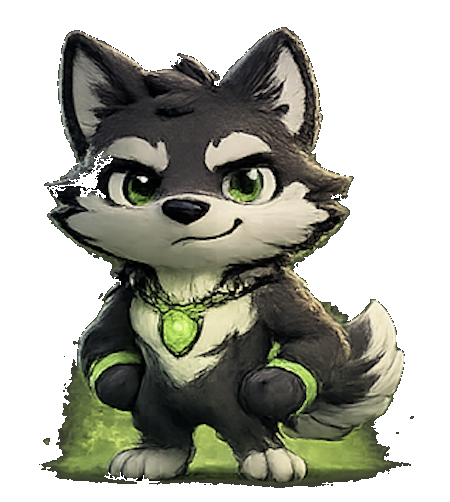
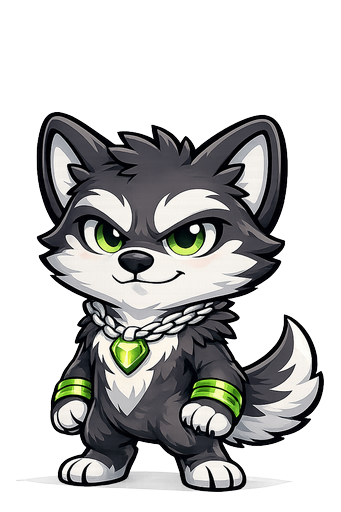
Update dependencies, config, plugins, and Locke assets
Add expo-asset, upgrade xlsx to 0.20.3, add alternate icon plugin,
and update all mascot/rank artwork to higher-resolution versions
with new mood-based app icons and Runt rank badge.

diff --git a/plugins/withAlternateIcons.js b/plugins/withAlternateIcons.js
@@ -1,0 +1,246 @@
+const {
+  withDangerousMod,
+  withInfoPlist,
+  withEntitlementsPlist,
+  withXcodeProject,
+} = require("expo/config-plugins");
+const fs = require("fs");
+const path = require("path");
+const { execSync } = require("child_process");
+
+const ICON_MOODS = [
+  "icon_focused",
+  "icon_motivated",
+  "icon_mischievous",
+  "icon_disappointed",
+];
+
+// Map mood name -> Xcode asset set name
+function assetSetName(mood) {
+  const suffix = mood.replace("icon_", "");
+  return "Icon" + suffix.charAt(0).toUpperCase() + suffix.slice(1);
+}
+
+/**
+ * Pad a PNG to 1024x1024 centered on #0D1117 background using sips + Python.
+ * Only runs if the image isn't already 1024x1024 at 72 DPI.
+ */
+function ensureIcon1024(pngPath) {
+  if (!fs.existsSync(pngPath)) return;
+  const info = execSync(`sips -g pixelWidth -g pixelHeight -g dpiWidth "${pngPath}"`, {
+    encoding: "utf8",
+  });
+  const w = parseInt(info.match(/pixelWidth:\s*(\d+)/)?.[1] || "0");
+  const h = parseInt(info.match(/pixelHeight:\s*(\d+)/)?.[1] || "0");
+  const dpi = parseFloat(info.match(/dpiWidth:\s*([\d.]+)/)?.[1] || "72");
+  if (w === 1024 && h === 1024 && Math.abs(dpi - 72) < 1) return;
+
+  console.log(`  [withAlternateIcons] Padding ${path.basename(pngPath)} (${w}x${h} @${dpi}dpi) -> 1024x1024 @72dpi`);
+  execSync(
+    `/usr/bin/python3 -c "
+from PIL import Image
+fg = Image.open('${pngPath}').convert('RGBA')
+w, h = fg.size
+BG = (0x0D, 0x11, 0x17, 255)
+canvas = Image.new('RGBA', (1024, 1024), BG)
+if w > 900 or h > 900:
+    pixels = fg.load()
+    min_x, min_y, max_x, max_y = w, h, 0, 0
+    for y in range(h):
+        for x in range(w):
+            r, g, b, a = pixels[x, y]
+            if a > 10 and not (r == 0x0D and g == 0x11 and b == 0x17):
+                min_x, min_y = min(min_x, x), min(min_y, y)
+                max_x, max_y = max(max_x, x), max(max_y, y)
+    if max_x > min_x and max_y > min_y:
+        content = fg.crop((min_x, min_y, max_x + 1, max_y + 1))
+        cw, ch = content.size
+        canvas.paste(content, ((1024-cw)//2, (1024-ch)//2), content)
+    else:
+        canvas.paste(fg, ((1024-w)//2, (1024-h)//2), fg)
+else:
+    canvas.paste(fg, ((1024-w)//2, (1024-h)//2), fg)
+canvas.save('${pngPath}', dpi=(72, 72))
+"`,
+    { encoding: "utf8" }
+  );
+}
+
+// 1. Add alternate icon image sets to xcassets
+const withAlternateIconAssets = (config) => {
+  return withDangerousMod(config, [
+    "ios",
+    async (config) => {
+      const projectRoot = config.modRequest.projectRoot;
+      const xcassetsDir = path.join(
+        projectRoot,
+        "ios",
+        config.modRequest.projectName,
+        "Images.xcassets"
+      );
+      const iconsSrc = path.join(projectRoot, "assets", "icons");
+
+      // Ensure source icons are 1024x1024
+      for (const fname of fs.readdirSync(iconsSrc)) {
+        if (fname.endsWith(".png")) {
+          ensureIcon1024(path.join(iconsSrc, fname));
+        }
+      }
+
+      // Also ensure main icon sources
+      const mainIcon = path.join(projectRoot, "assets", "icon.png");
+      const adaptiveIcon = path.join(projectRoot, "assets", "adaptive-icon.png");
+      if (fs.existsSync(mainIcon)) ensureIcon1024(mainIcon);
+      if (fs.existsSync(adaptiveIcon)) ensureIcon1024(adaptiveIcon);
+
+      // Create alternate icon asset sets
+      for (const mood of ICON_MOODS) {
+        const setName = assetSetName(mood);
+        const setDir = path.join(xcassetsDir, `${setName}.appiconset`);
+        const srcPng = path.join(iconsSrc, `${mood}.png`);
+
+        if (!fs.existsSync(srcPng)) {
+          console.warn(`  [withAlternateIcons] Missing ${mood}.png, skipping`);
+          continue;
+        }
+
+        fs.mkdirSync(setDir, { recursive: true });
+        fs.copyFileSync(srcPng, path.join(setDir, `${mood}.png`));
+        fs.writeFileSync(
+          path.join(setDir, "Contents.json"),
+          JSON.stringify(
+            {
+              images: [
+                {
+                  filename: `${mood}.png`,
+                  idiom: "universal",
+                  platform: "ios",
+                  size: "1024x1024",
+                },
+              ],
+              info: { version: 1, author: "expo" },
+            },
+            null,
+            2
+          )
+        );
+        console.log(`  [withAlternateIcons] Added ${setName} icon set`);
+      }
+
+      // Write the AppIconModule.m native module
+      const nativeDir = path.join(
+        projectRoot,
+        "ios",
+        config.modRequest.projectName
+      );
+      const modulePath = path.join(nativeDir, "AppIconModule.m");
+      fs.writeFileSync(
+        modulePath,
+        `#import <React/RCTBridgeModule.h>
+#import <UIKit/UIKit.h>
+
+@interface AppIconModule : NSObject <RCTBridgeModule>
+@end
+
+@implementation AppIconModule
+
+RCT_EXPORT_MODULE();
+
+RCT_EXPORT_METHOD(setIcon:(NSString *)iconName
+                  resolve:(RCTPromiseResolveBlock)resolve
+                  reject:(RCTPromiseRejectBlock)reject)
+{
+  dispatch_async(dispatch_get_main_queue(), ^{
+    NSString *name = [iconName isKindOfClass:[NSNull class]] ? nil : iconName;
+    [[UIApplication sharedApplication] setAlternateIconName:name
+                                         completionHandler:^(NSError * _Nullable error) {
+      if (error) {
+        reject(@"ICON_ERROR", error.localizedDescription, error);
+      } else {
+        resolve(nil);
+      }
+    }];
+  });
+}
+
+@end
+`
+      );
+      console.log("  [withAlternateIcons] Added AppIconModule.m");
+
+      return config;
+    },
+  ]);
+};
+
+// 2. Add AppIconModule.m to Xcode project sources
+const withAppIconXcodeProject = (config) => {
+  return withXcodeProject(config, (config) => {
+    const proj = config.modResults;
+    const projectName = config.modRequest.projectName;
+    const fileName = "AppIconModule.m";
+    const filePath = `${projectName}/${fileName}`;
+
+    // Check if already added
+    const existingFile = proj.pbxFileReferenceSection();
+    const alreadyAdded = Object.values(existingFile).some(
+      (f) => typeof f === "object" && f.name === fileName
+    );
+    if (!alreadyAdded) {
+      // Find the main source group for the project
+      const mainGroup = proj.getFirstProject().firstProject.mainGroup;
+      const groups = proj.getPBXGroupByKey(mainGroup);
+      let targetGroup = mainGroup;
+      if (groups && groups.children) {
+        const appGroup = groups.children.find(
+          (c) => c.comment === projectName
+        );
+        if (appGroup) targetGroup = appGroup.value;
+      }
+
+      proj.addSourceFile(filePath, { target: proj.getFirstTarget().uuid }, targetGroup);
+      console.log("  [withAlternateIcons] Added AppIconModule.m to Xcode project");
+    }
+    return config;
+  });
+};
+
+// 3. Add CFBundleAlternateIcons to Info.plist
+const withAlternateIconsPlist = (config) => {
+  return withInfoPlist(config, (config) => {
+    const alternateIcons = {};
+    for (const mood of ICON_MOODS) {
+      alternateIcons[mood] = {
+        CFBundleIconFiles: [assetSetName(mood)],
+      };
+    }
+    config.modResults.CFBundleIcons = {
+      CFBundlePrimaryIcon: {
+        CFBundleIconFiles: ["AppIcon"],
+      },
+      CFBundleAlternateIcons: alternateIcons,
+    };
+    console.log("  [withAlternateIcons] Added CFBundleAlternateIcons to Info.plist");
+    return config;
+  });
+};
+
+// 4. Remove aps-environment from entitlements (not supported on personal teams)
+const withFixedEntitlements = (config) => {
+  return withEntitlementsPlist(config, (config) => {
+    if (config.modResults["aps-environment"]) {
+      delete config.modResults["aps-environment"];
+      console.log("  [withAlternateIcons] Removed aps-environment entitlement");
+    }
+    return config;
+  });
+};
+
+// Compose all mods
+module.exports = function withAlternateIcons(config) {
+  config = withAlternateIconAssets(config);
+  config = withAppIconXcodeProject(config);
+  config = withAlternateIconsPlist(config);
+  config = withFixedEntitlements(config);
+  return config;
+};

diff --git a/index.ts b/index.ts
@@ -1,3 +1,4 @@
+
 // Entry point is managed by expo-router via package.json "main": "expo-router/entry"
 // This file is not used by the app.
 export {};
